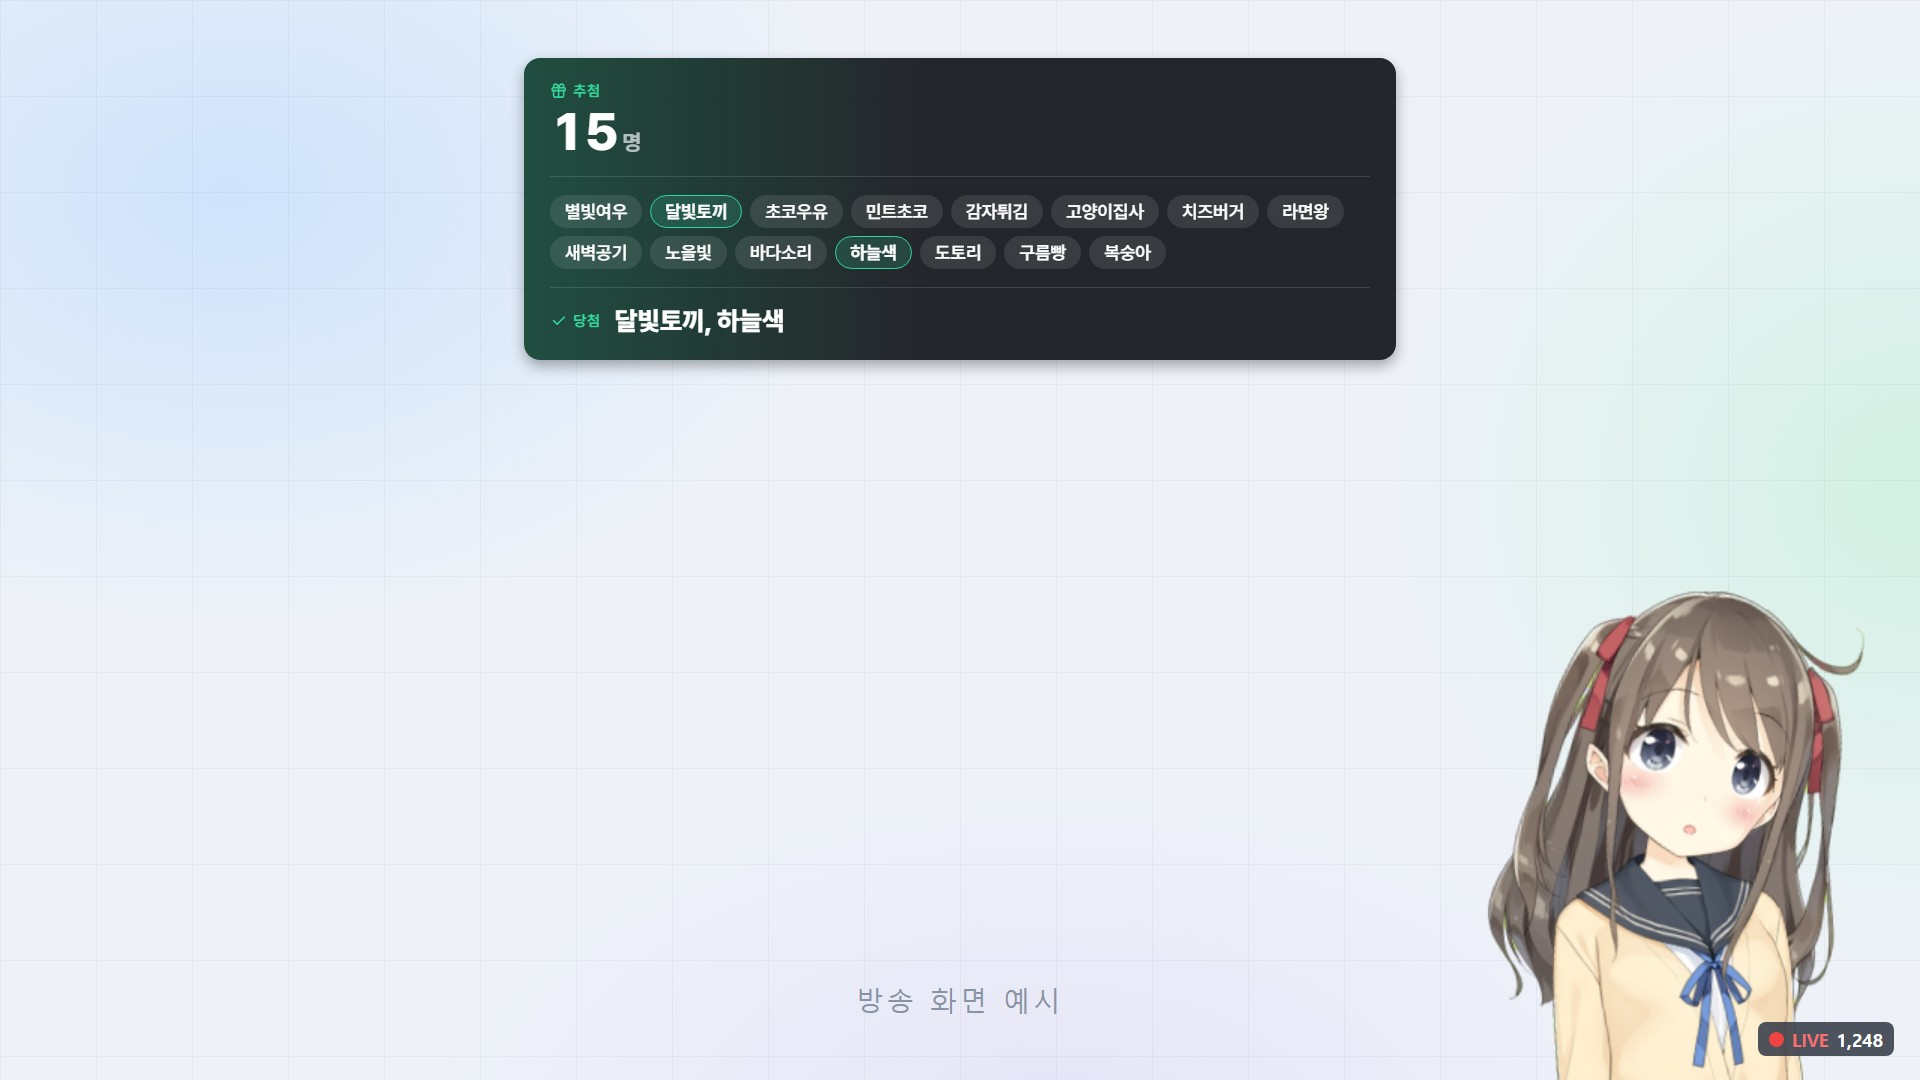
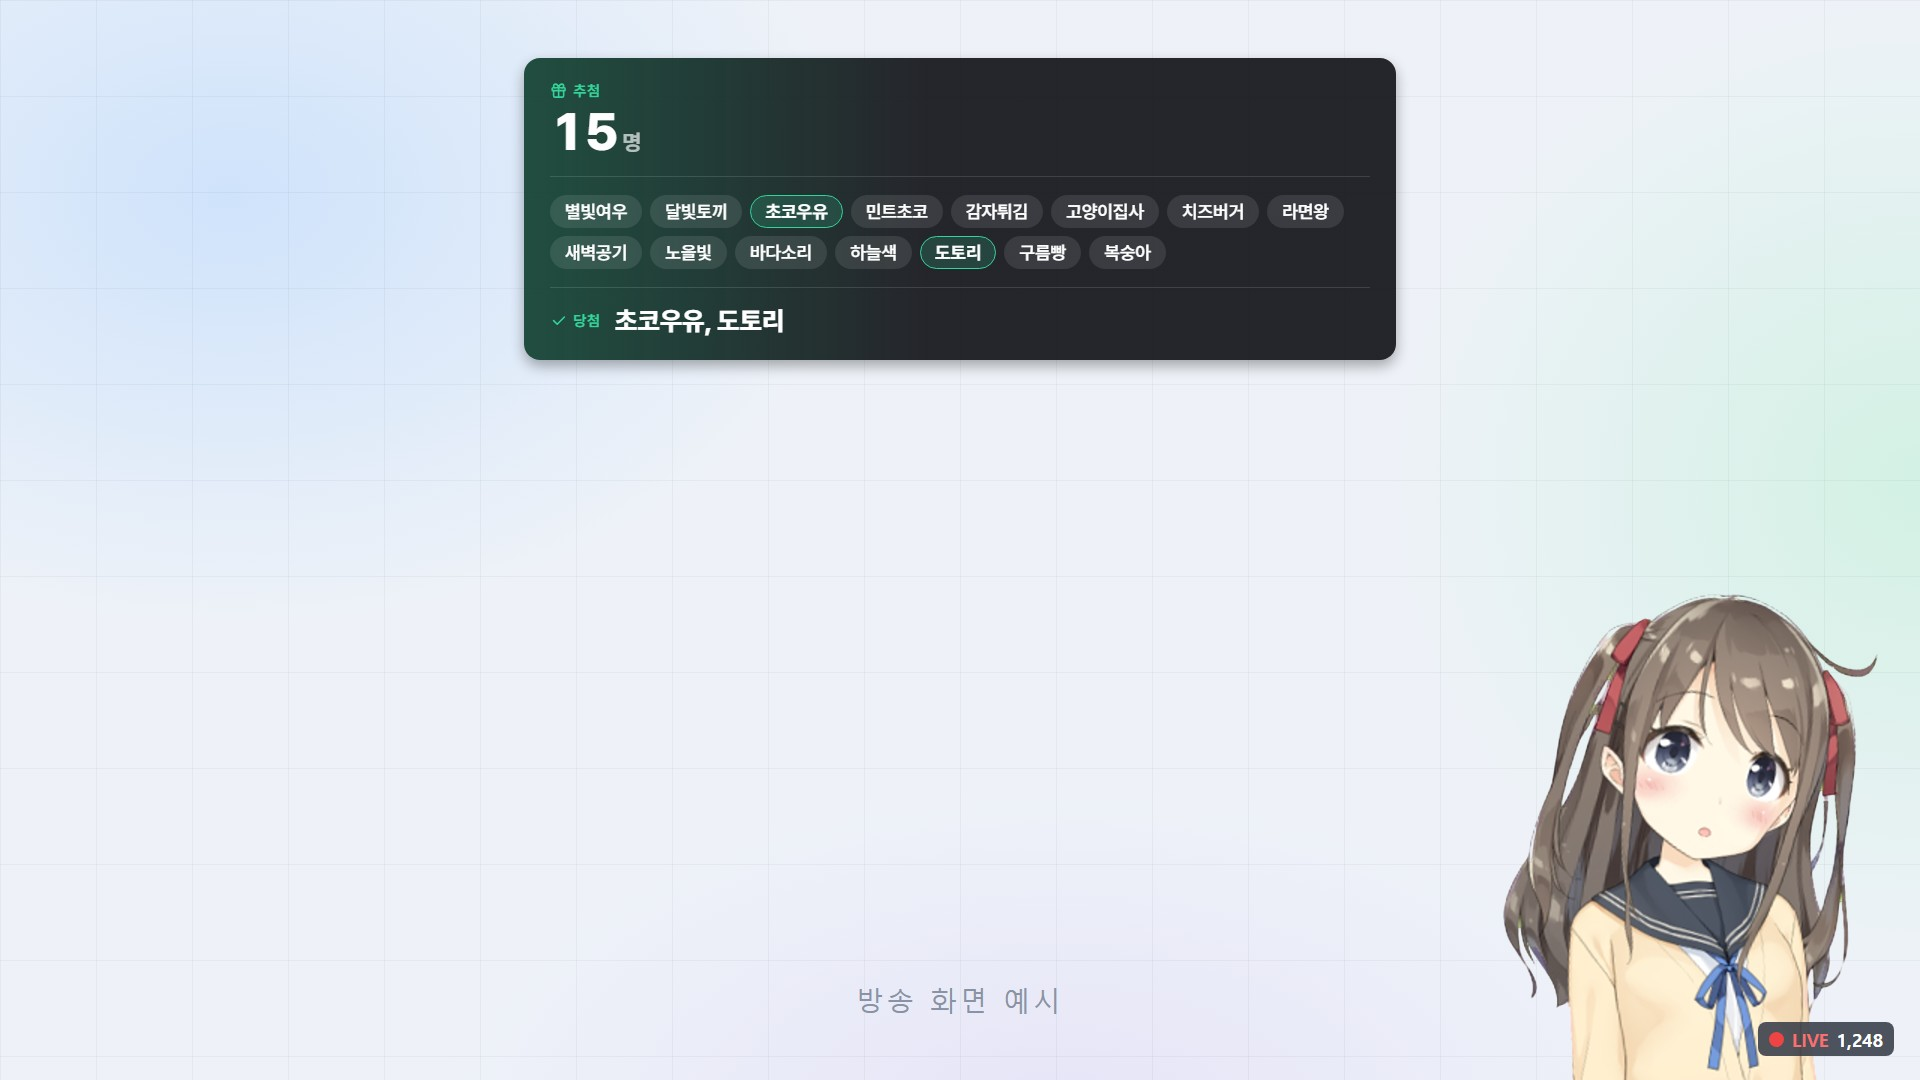
방송 화면 예시의 아바타 누끼 다시 따기 — 압축 없는 원본으로, 가장자리 매끈하게
- 투표·추첨·당첨자 채팅·시간 가이드 그림 4장과 홈 첫 화면 합성(overlay-3d-v11) 교체
- 아바타는 VTube Studio 단색 배경 캡처(압축 없음)에서 초록 번짐을 빼고 오림, 사과·바나나는 사용자가 찍은 TITS 사진에서
- 그림 주소 ?v=241 로 올려 옛 그림이 캐시에 남지 않게

diff --git a/guide/participation/index.html b/guide/participation/index.html
@@ -172,7 +172,7 @@
         <li>"직접 종료"를 고르면 [종료]를 누를 때까지 받습니다. 시작·결과 채팅은 끌 수 있고 문구는 바꿀 수 있습니다.</li>
       </ul>
 
-      <img src="/img/shots/overlay-vote.jpg?v=240" width="1280" height="720" alt="방송 화면 예시 — 투표 오버레이. 1위 보기만 초록으로 물들고, 보기마다 비율과 표 수, 위쪽 선은 남은 시간" loading="lazy">
+      <img src="/img/shots/overlay-vote.jpg?v=241" width="1280" height="720" alt="방송 화면 예시 — 투표 오버레이. 1위 보기만 초록으로 물들고, 보기마다 비율과 표 수, 위쪽 선은 남은 시간" loading="lazy">
 
       <h2 id="raffle">추첨</h2>
       <p><b>[모집 시작]</b>을 누르면 그때부터 채팅한 사람이 자동으로 참여자에 들어갑니다. 특정 말을 쳐야 들어오게 하려면 키워드를 적으세요(예: 참여).
@@ -186,8 +186,8 @@
         <li><b>구독자 표시 (2.0).</b> 참여자 칸 오른쪽 위의 "구독자 표시"를 켜면 참여자의 구독 여부를 차례로 확인해 구독자 수(보라 배지)와 명단 색(보라)으로 보여 줍니다. 기능 창에서만 보이고 방송 화면에는 표시되지 않습니다. 처음에는 꺼져 있습니다.</li>
       </ul>
 
-      <img src="/img/shots/overlay-raffle.jpg?v=240" width="1280" height="720" alt="방송 화면 예시 — 추첨 오버레이. 참여 15명, 닉네임 명단, 당첨자 두 명이 초록 테두리" loading="lazy">
-      <img src="/img/shots/overlay-spotlight.jpg?v=240" width="1280" height="720" alt="방송 화면 예시 — 당첨자 한 명의 닉네임과 채팅 두 줄이 뜬 모습" loading="lazy">
+      <img src="/img/shots/overlay-raffle.jpg?v=241" width="1280" height="720" alt="방송 화면 예시 — 추첨 오버레이. 참여 15명, 닉네임 명단, 당첨자 두 명이 초록 테두리" loading="lazy">
+      <img src="/img/shots/overlay-spotlight.jpg?v=241" width="1280" height="720" alt="방송 화면 예시 — 당첨자 한 명의 닉네임과 채팅 두 줄이 뜬 모습" loading="lazy">
 
       <h2 id="wheel">돌림판</h2>
       <p>방장이 직접 돌리는 룰렛입니다. 항목과 확률을 적어 저장하고 <b>[돌리기]</b>를 누르면 기능 창의 원판과 방송 화면의 원판이 같이 돌아갑니다.</p>

diff --git a/index.html b/index.html
@@ -533,7 +533,7 @@
     <div class="screens">
       <div class="scr reveal">
         <div class="txt"><b>방송 화면에 이렇게 뜹니다</b><p>OBS 브라우저 소스로 넣는 알림·타이머·카운터·룰렛·채팅·추첨·투표. 시청자는 채팅에 번호만 치면 되고, 결과는 화면과 채팅에 같이 나옵니다. 버튜버라면 TITS로 아바타에 물건도 던집니다.</p></div>
-        <div class="pic"><img src="/img/shots/overlay-3d-v10.webp" width="3180" height="2104" alt="방송 화면 예시(밝은 배경) — 왼쪽 위 후원 알림 카드, 그 아래 투표, 왼쪽 아래 채팅 오버레이 7줄, 가운데 7연차 후원 룰렛과 결과, 오른쪽에 추첨 15명·라면 타이머·데스 카운터, 오른쪽 아래 버튜버 아바타에 TITS로 던진 사과·바나나" loading="lazy"></div>
+        <div class="pic"><img src="/img/shots/overlay-3d-v11.webp" width="3180" height="2104" alt="방송 화면 예시(밝은 배경) — 왼쪽 위 후원 알림 카드, 그 아래 투표, 왼쪽 아래 채팅 오버레이 7줄, 가운데 7연차 후원 룰렛과 결과, 오른쪽에 추첨 15명·라면 타이머·데스 카운터, 오른쪽 아래 버튜버 아바타에 TITS로 던진 사과·바나나" loading="lazy"></div>
       </div>
       <div class="scr rev reveal">
         <div class="txt"><b>기능 창에서 버튼으로</b><p>투표·추첨·돌림판·후원 룰렛, 카운터·타이머·스톱워치, 채팅·알림 오버레이, 신청곡, TTS·TITS를 한 창에서 다룹니다. 명령어를 외울 것이 없고, 각 화면의 URL을 OBS에 한 번 넣으면 끝입니다.</p></div>

diff --git a/guide/time/index.html b/guide/time/index.html
@@ -148,7 +148,7 @@
         </ol>
       </div>
 
-      <img src="/img/shots/overlay-time.jpg?v=240" width="1280" height="720" alt="방송 화면 예시 — 오른쪽에 타이머, 데스 카운터, 스톱워치가 세로로 놓인 모습" loading="lazy">
+      <img src="/img/shots/overlay-time.jpg?v=241" width="1280" height="720" alt="방송 화면 예시 — 오른쪽에 타이머, 데스 카운터, 스톱워치가 세로로 놓인 모습" loading="lazy">
 
       <h2 id="counter">카운터</h2>
       <p>이름을 정해 만들면(예: 데스) 큰 숫자와 <b>[−] [+] [0]</b> 버튼이 생깁니다. 누를 때마다 방송 화면의 숫자가 바로 바뀝니다. 카운터는 여러 개 만들 수 있고 값은 봇을 껐다 켜도 남습니다.</p>
